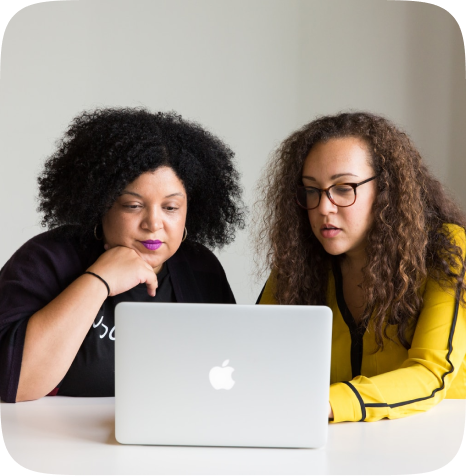
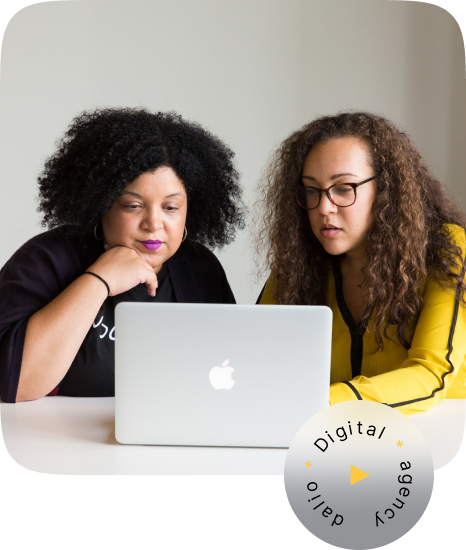
Built the header section
Built the main header and added the images and worked on the positioning

diff --git a/sass/_header.scss b/sass/_header.scss
@@ -2,7 +2,77 @@
 
 
     &__text {
-        font-size: 2.4rem;
-        line-height: 1.4rem;
+
+        position: relative;
+        padding: 6rem 0;
+        max-width: 55rem;
+        margin-left: 25vw;
+
+        p {
+            font-size: 2.4rem;
+            line-height: 1.6;
+        }
+
+        .btn {
+            margin-top: 2rem;
+        }
     }
+
+    &__container {
+        max-width: 140rem;
+        margin: 0 auto;
+    }
+
+    &__content {
+        height: 100%;
+        position: relative;
+
+        .heading {
+            max-width: 80rem;
+            min-width: 75rem;
+            margin-left: 17vw;
+            position: relative;
+
+            &__img {
+                position: absolute;
+                top: 70%;
+                left: 85%;
+
+
+                &>* {
+                    display: block;
+
+                }
+
+
+                &-0 {}
+
+                &-1 {}
+
+                &-2 {
+                    position: absolute;
+                    top: 60%;
+                    left: -50%;
+                }
+            }
+        }
+
+        .world-class {
+            display: inline-block;
+            position: relative;
+            top: 40px;
+            left: -10px;
+        }
+    }
+}
+
+.scroll {
+    display: block;
+    text-align: center;
+    margin: 0 auto;
+
+    &-wrap {
+        width: 100%;
+    }
+
 }

diff --git a/index.html b/index.html
@@ -30,7 +30,35 @@
                 <img src="/img/quill_hamburger.svg" alt="hamburger icon" class="hamburger__img">
             </div>
         </div>
+
+        <div class="header__content">
+            <div class="heading">
+                <img src="/img/world-class.png" alt="World class graphic" class="world-class">
+                <h1 class="heading-primary heading-primary-top">Digital</h1>
+                <h1 class="heading-primary heading-primary-bottom">Agency</h1>
+                <div class="heading__img">
+
+                    <img src="/img/image-1.png" alt="Working collegues " class="heading__img-1">
+                </div>
+            </div>
+            <div class="header__text">
+
+                <p>Full-service design support that growing B2B companies need. World leading agency.
+                </p>
+
+                <a href="#" class="btn">Our projects &nearr;</a>
+                <img src="/img/image-2.png" alt="Working collegues " class="heading__img-2">
+            </div>
+            <div class="scroll-wrap">
+
+                <img src="/img/scroll.png" alt="Scroll down picture" class="scroll">
+            </div>
+
+        </div>
+
     </header>
+
+
 
 </body>
 

diff --git a/sass/_typography.scss b/sass/_typography.scss
@@ -1,6 +1,16 @@
 .heading-primary {
     font-size: 15rem;
     line-height: 1;
+
+    &-top {
+        display: inline-block;
+        margin-left: -2rem;
+    }
+
+    &-bottom {
+        display: inline-block;
+        margin-left: 10rem;
+    }
 }
 
 .heading-secondary {

diff --git a/sass/_components.scss b/sass/_components.scss
@@ -1,0 +1,9 @@
+.btn {
+    background-color: var(--tertiary-color);
+    padding: 1.2rem 2rem;
+    border-radius: 30rem;
+    border: none;
+    cursor: pointer;
+    color: var(--black);
+    display: inline-block;
+}
